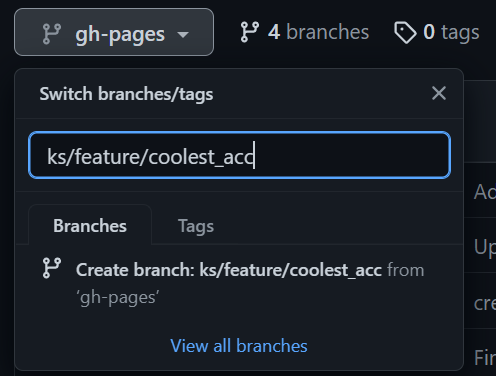
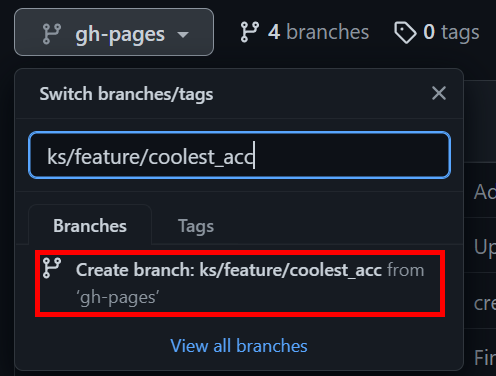
Branch images and text

Changed region(s): [[0.0605, 0.6436, 0.9073, 0.8484]]

diff --git a/HowToCreateAcceleratorPage.md b/HowToCreateAcceleratorPage.md
@@ -16,14 +16,24 @@ To go the *Code* tab
 
 ![Menu](images/howtocreateacceleratorpage/menubar.png)
 
-Create a new branch. This can either be done from the web site as shown below. Make sure you create the new branch from the main branch called *gh-pages*.
+Create a new branch. This can either be done from the web site as shown below. Make sure you create the new branch from the main branch called *gh-pages*. Enter the name and click the *Create branch* button/link.
+
 ![Create Branch](images/howtocreateacceleratorpage/createbranch.png)
 
-To create a new branch from the commandline open e.g. git bash. Make sure the main branch is checkout out (the *gh-pages* branch) and enter the command
+To create a new branch from the commandline open e.g. git bash. Make sure the main branch is checkout out (the *gh-pages* branch) and that you have pulled the latest code. Enter the commands
+> git pull
 > git checkout -b "ks/feature/coolest_acc"
+as shown below
+
+![Pull latest](images/howtocreateacceleratorpage/gitpull.png)
 
 ![Create Branch](images/howtocreateacceleratorpage/createbranch_cmd.png)
 
+It is recommended to work locally.
+
+If you have created the branch on your own machine it should not be checked out.
+
+![Create Branch](images/howtocreateacceleratorpage/switchtobranch.png)
 
 
 ## Update Toolkit Page
